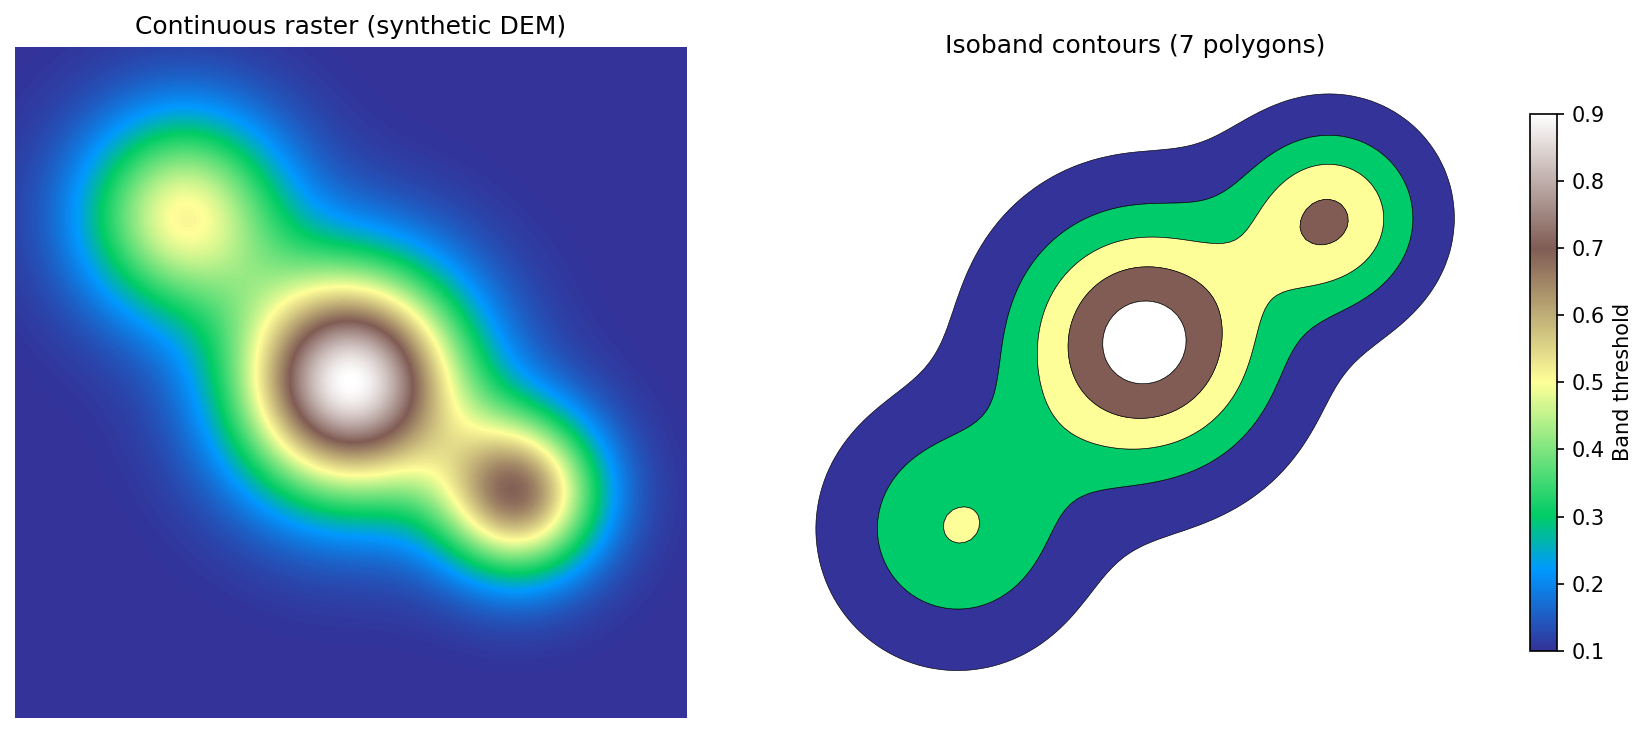
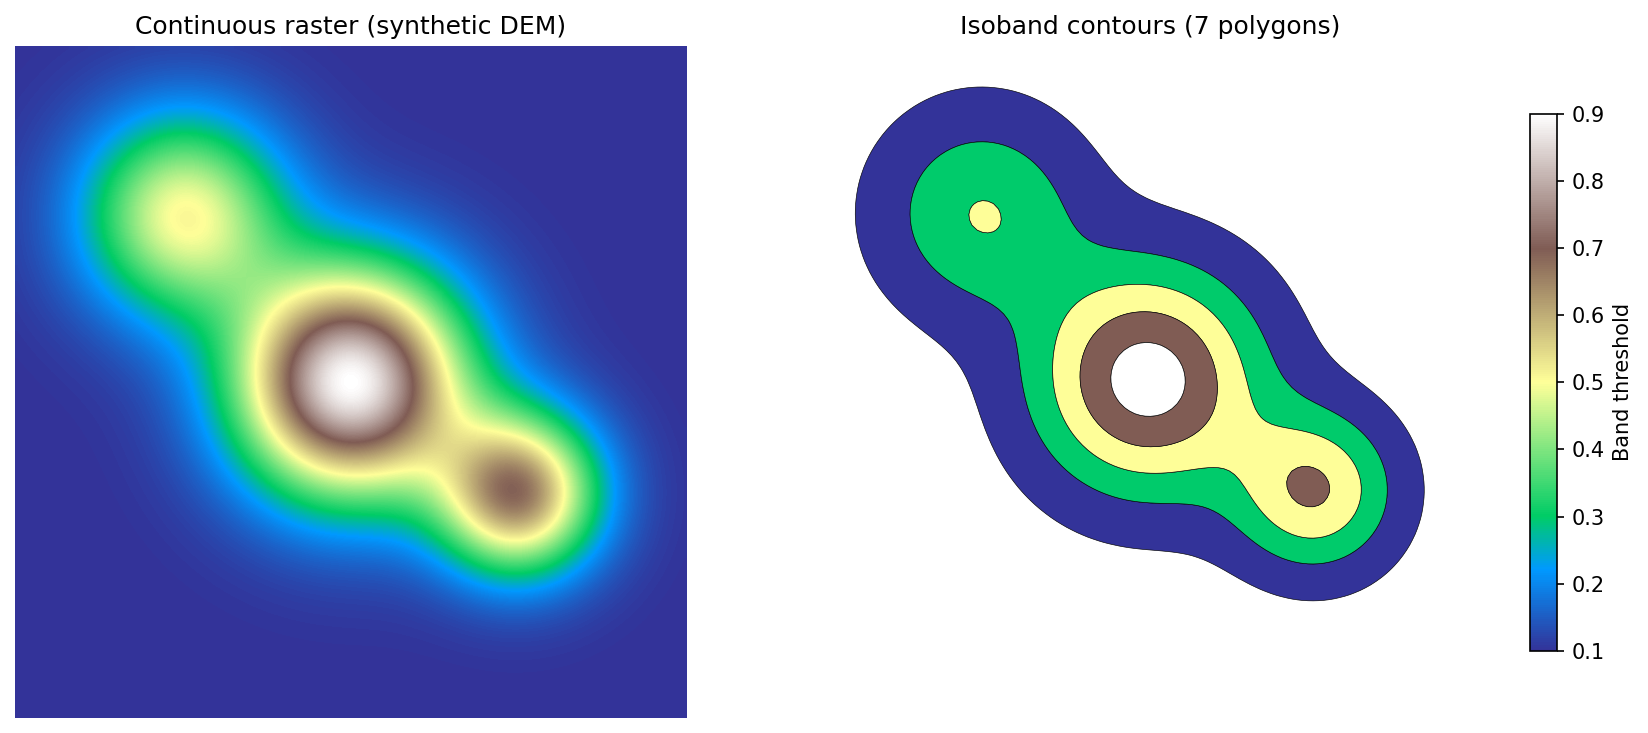
fix: correct raster/vector plot alignment in README and notebook
imshow used default y-axis orientation causing horizontal flip relative
to vector panels. Add extent= param and matching xlim/ylim/aspect on
both axes. Regenerate all 4 PNG assets.

Changed region(s): [[0.4951, 0.1201, 0.8975, 0.9304], [0.588, 0.03, 0.8046, 0.09]]

diff --git a/scripts/generate_readme_plots.py b/scripts/generate_readme_plots.py
@@ -1,13 +1,31 @@
 """Generate plots for README.md."""
 
-import matplotlib
+from pathlib import Path
 
-matplotlib.use("Agg")
 import geopandas as gpd
-import matplotlib.pyplot as plt
+import matplotlib
 import numpy as np
 from contourrs import contours_arrow, shapes_arrow
 from matplotlib.colors import ListedColormap
+
+matplotlib.use("Agg")
+import matplotlib.pyplot as plt
+
+OUTPUT_DIRS = (Path("assets"), Path("docs/assets"))
+
+
+def _save_figure(fig, name: str) -> None:
+    for output_dir in OUTPUT_DIRS:
+        output_path = output_dir / name
+        fig.savefig(output_path, dpi=150, bbox_inches="tight")
+        print(f"Saved {output_path}")
+
+
+def _align_to_raster_grid(ax, width: int, height: int) -> None:
+    ax.set_xlim(0, width)
+    ax.set_ylim(height, 0)
+    ax.set_aspect("equal")
+
 
 # ── Polygonize: raster vs vector ────────────────────────────────────────
 
@@ -17,19 +35,26 @@ cmap = ListedColormap(["#2d6a4f", "#52b788", "#d4a373", "#e9c46a"])
 
 gdf = gpd.GeoDataFrame.from_arrow(shapes_arrow(raster, connectivity=4))
 color_map = {1.0: "#2d6a4f", 2.0: "#52b788", 3.0: "#d4a373", 4.0: "#e9c46a"}
-gdf["color"] = gdf["value"].map(color_map)
+gdf["color"] = [color_map[float(value)] for value in gdf["value"]]
 
 fig, axes = plt.subplots(1, 2, figsize=(12, 5))
-axes[0].imshow(raster, cmap=cmap, interpolation="nearest")
+height, width = raster.shape
+axes[0].imshow(
+    raster,
+    cmap=cmap,
+    interpolation="nearest",
+    extent=(0, width, height, 0),
+)
 axes[0].set_title("Input raster (4 classes)")
 axes[0].set_axis_off()
+_align_to_raster_grid(axes[0], width, height)
 gdf.plot(ax=axes[1], color=gdf["color"], edgecolor="black", linewidth=0.2)
 axes[1].set_title(f"Vector polygons ({len(gdf)} features)")
 axes[1].set_axis_off()
+_align_to_raster_grid(axes[1], width, height)
 plt.tight_layout()
-fig.savefig("assets/polygonize.png", dpi=150, bbox_inches="tight")
+_save_figure(fig, "polygonize.png")
 plt.close(fig)
-print("Saved assets/polygonize.png")
 
 # ── Contours: DEM vs isobands ───────────────────────────────────────────
 
@@ -44,9 +69,16 @@ thresholds = [0.1, 0.3, 0.5, 0.7, 0.9, 1.1]
 gdf_contour = gpd.GeoDataFrame.from_arrow(contours_arrow(dem, thresholds=thresholds))
 
 fig, axes = plt.subplots(1, 2, figsize=(12, 5))
-axes[0].imshow(dem, cmap="terrain", interpolation="bilinear")
+height, width = dem.shape
+axes[0].imshow(
+    dem,
+    cmap="terrain",
+    interpolation="bilinear",
+    extent=(0, width, height, 0),
+)
 axes[0].set_title("Continuous raster (synthetic DEM)")
 axes[0].set_axis_off()
+_align_to_raster_grid(axes[0], width, height)
 gdf_contour.plot(
     ax=axes[1],
     column="value",
@@ -58,7 +90,7 @@ gdf_contour.plot(
 )
 axes[1].set_title(f"Isoband contours ({len(gdf_contour)} polygons)")
 axes[1].set_axis_off()
+_align_to_raster_grid(axes[1], width, height)
 plt.tight_layout()
-fig.savefig("assets/contours.png", dpi=150, bbox_inches="tight")
+_save_figure(fig, "contours.png")
 plt.close(fig)
-print("Saved assets/contours.png")
